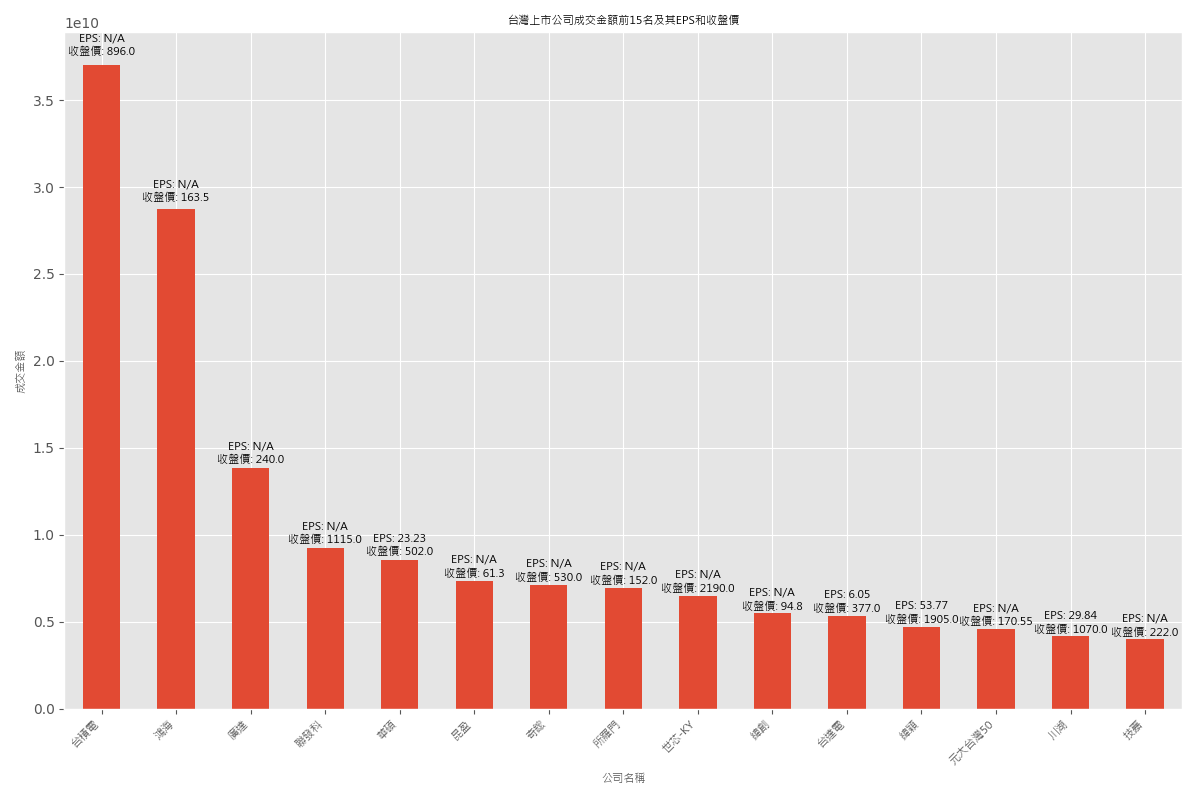
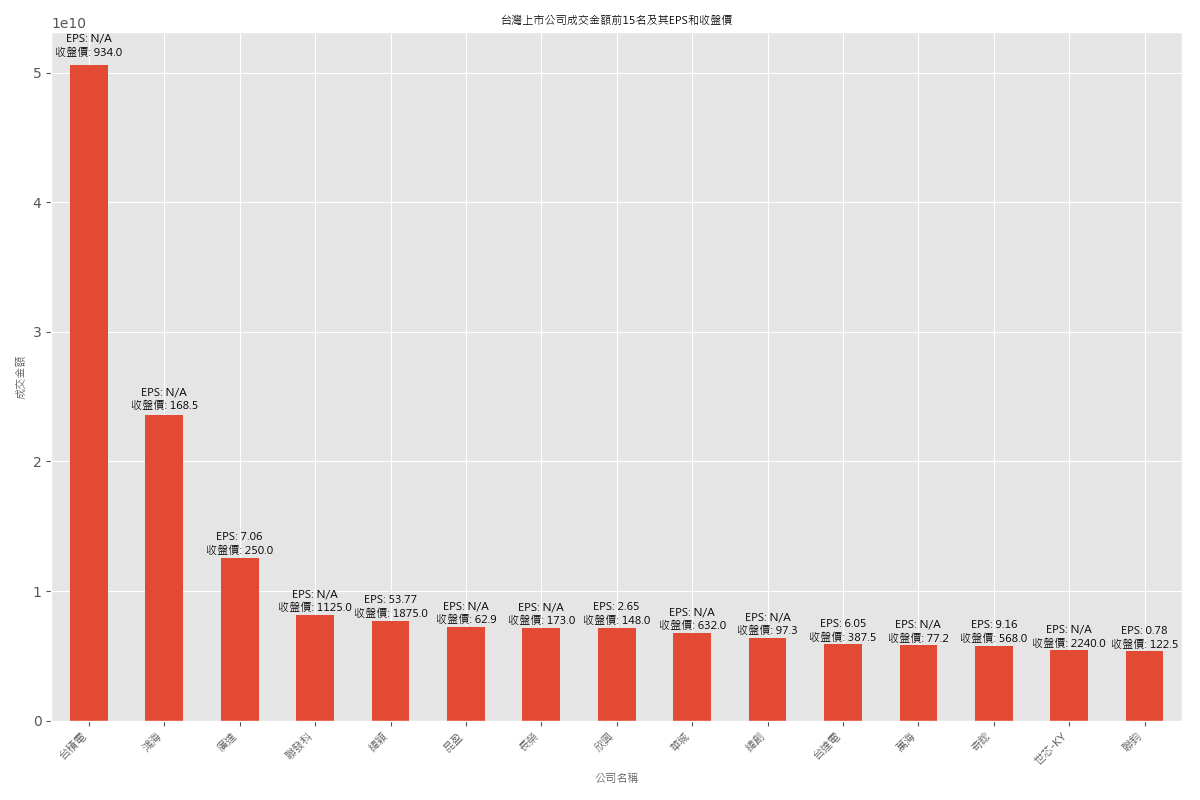
Update from GitHub Actions

Changed region(s): [[0.0, 0.0312, 0.9867, 0.9688], [0.4008, 0.0, 0.6167, 0.0312], [0.4933, 0.9688, 0.5242, 1.0]]

diff --git a/README.md b/README.md
@@ -26,25 +26,25 @@ EPS從每年的年初開始計算。
 
 ![2454_3month_history](https://github.com/weitsunglin/quick_analyze_taiwan_hot_stock/blob/main/hot/2454_3month_history.png)
 
-### 股票代號：2357
+### 股票代號：6669
 
-![2357_3month_history](https://github.com/weitsunglin/quick_analyze_taiwan_hot_stock/blob/main/hot/2357_3month_history.png)
+![6669_3month_history](https://github.com/weitsunglin/quick_analyze_taiwan_hot_stock/blob/main/hot/6669_3month_history.png)
 
 ### 股票代號：2365
 
 ![2365_3month_history](https://github.com/weitsunglin/quick_analyze_taiwan_hot_stock/blob/main/hot/2365_3month_history.png)
 
-### 股票代號：3017
+### 股票代號：2603
 
-![3017_3month_history](https://github.com/weitsunglin/quick_analyze_taiwan_hot_stock/blob/main/hot/3017_3month_history.png)
+![2603_3month_history](https://github.com/weitsunglin/quick_analyze_taiwan_hot_stock/blob/main/hot/2603_3month_history.png)
 
-### 股票代號：2359
+### 股票代號：3037
 
-![2359_3month_history](https://github.com/weitsunglin/quick_analyze_taiwan_hot_stock/blob/main/hot/2359_3month_history.png)
+![3037_3month_history](https://github.com/weitsunglin/quick_analyze_taiwan_hot_stock/blob/main/hot/3037_3month_history.png)
 
-### 股票代號：3661
+### 股票代號：1519
 
-![3661_3month_history](https://github.com/weitsunglin/quick_analyze_taiwan_hot_stock/blob/main/hot/3661_3month_history.png)
+![1519_3month_history](https://github.com/weitsunglin/quick_analyze_taiwan_hot_stock/blob/main/hot/1519_3month_history.png)
 
 ### 股票代號：3231
 
@@ -54,19 +54,19 @@ EPS從每年的年初開始計算。
 
 ![2308_3month_history](https://github.com/weitsunglin/quick_analyze_taiwan_hot_stock/blob/main/hot/2308_3month_history.png)
 
-### 股票代號：6669
+### 股票代號：2615
 
-![6669_3month_history](https://github.com/weitsunglin/quick_analyze_taiwan_hot_stock/blob/main/hot/6669_3month_history.png)
+![2615_3month_history](https://github.com/weitsunglin/quick_analyze_taiwan_hot_stock/blob/main/hot/2615_3month_history.png)
 
-### 股票代號：0050
+### 股票代號：3017
 
-![0050_3month_history](https://github.com/weitsunglin/quick_analyze_taiwan_hot_stock/blob/main/hot/0050_3month_history.png)
+![3017_3month_history](https://github.com/weitsunglin/quick_analyze_taiwan_hot_stock/blob/main/hot/3017_3month_history.png)
 
-### 股票代號：2059
+### 股票代號：3661
 
-![2059_3month_history](https://github.com/weitsunglin/quick_analyze_taiwan_hot_stock/blob/main/hot/2059_3month_history.png)
+![3661_3month_history](https://github.com/weitsunglin/quick_analyze_taiwan_hot_stock/blob/main/hot/3661_3month_history.png)
 
-### 股票代號：2376
+### 股票代號：3450
 
-![2376_3month_history](https://github.com/weitsunglin/quick_analyze_taiwan_hot_stock/blob/main/hot/2376_3month_history.png)
+![3450_3month_history](https://github.com/weitsunglin/quick_analyze_taiwan_hot_stock/blob/main/hot/3450_3month_history.png)
 
